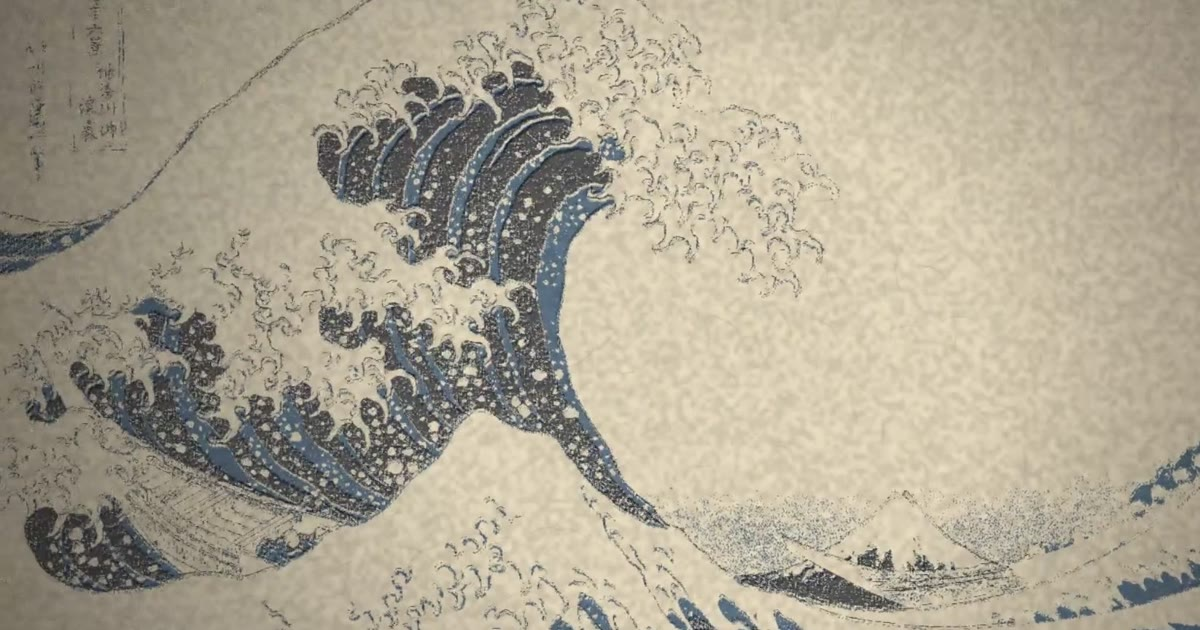
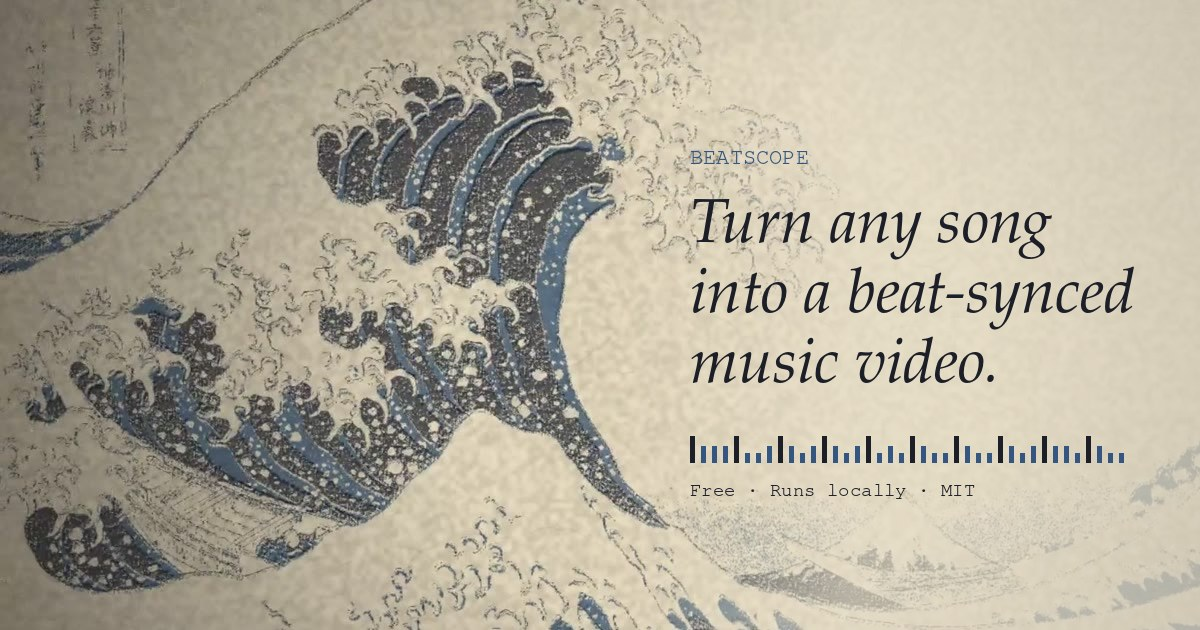
site: v0.16.0 copy, clearer headline and social card
- H1, title and social cards now say what BeatScope does: turn any song into a beat-synced music video.
- og-cover carries the headline and a beat strip.
- Four templates, own photos/clips, 1:1/16:9/9:16 at 720p/1080p.
- Download, wheel and material links point at v0.16.0; upgrade note for v0.15 users.

Changed region(s): [[0.555, 0.0, 1.0, 1.0]]

diff --git a/site/index.html b/site/index.html
@@ -3,21 +3,21 @@
   <head>
     <meta charset="utf-8" />
     <meta name="viewport" content="width=device-width, initial-scale=1" />
-    <title>BeatScope — Every stroke lands on a measured beat</title>
-    <meta name="description" content="BeatScope turns a song into a beat-synchronised film, or gives its timing to a coding agent. Runs locally. MIT. Featuring Shattered Heartbeat, a film by chornic." />
+    <title>BeatScope — Turn any song into a beat-synced music video</title>
+    <meta name="description" content="Turn any song into a beat-synced music video. Four templates, your own photos and clips, square, landscape or portrait at 720p or 1080p. Or hand the timing to a coding agent. Runs locally. MIT." />
     <meta name="theme-color" content="#0d0b0a" />
     <link rel="icon" href="favicon.ico" sizes="any" />
     <link rel="apple-touch-icon" href="apple-touch-icon.png" />
-    <meta property="og:title" content="BeatScope" />
-    <meta property="og:description" content="BeatScope turns a song into a beat-synchronised film, or gives its timing to a coding agent. Runs locally. MIT. Featuring Shattered Heartbeat, a film by chornic." />
+    <meta property="og:title" content="BeatScope — Turn any song into a beat-synced music video" />
+    <meta property="og:description" content="Turn any song into a beat-synced music video. Four templates, your own photos and clips, square, landscape or portrait at 720p or 1080p. Or hand the timing to a coding agent. Runs locally. MIT." />
     <meta property="og:type" content="website" />
     <meta property="og:url" content="https://beatscope.byelogan.fun/" />
     <meta property="og:image" content="https://beatscope.byelogan.fun/og-cover.jpg" />
     <meta property="og:image:width" content="1200" />
     <meta property="og:image:height" content="630" />
     <meta name="twitter:card" content="summary_large_image" />
-    <meta name="twitter:title" content="BeatScope" />
-    <meta name="twitter:description" content="BeatScope turns a song into a beat-synchronised film, or gives its timing to a coding agent. Runs locally. MIT. Featuring Shattered Heartbeat, a film by chornic." />
+    <meta name="twitter:title" content="BeatScope — Turn any song into a beat-synced music video" />
+    <meta name="twitter:description" content="Turn any song into a beat-synced music video. Four templates, your own photos and clips, square, landscape or portrait at 720p or 1080p. Or hand the timing to a coding agent. Runs locally. MIT." />
     <meta name="twitter:image" content="https://beatscope.byelogan.fun/og-cover.jpg" />
     <link rel="image_src" href="og-cover.jpg" />
     <link rel="preconnect" href="https://fonts.googleapis.com" />
@@ -168,7 +168,7 @@
         padding: 80px var(--gut) clamp(32px, 5vw, 56px);
       }
       .x-hero__copy { max-width: 820px; }
-      .x-hero h1 { margin: 0 0 20px; font: italic 400 clamp(46px, 7.4vw, 112px)/0.96 var(--serif); letter-spacing: -0.015em; }
+      .x-hero h1 { margin: 0 0 20px; font: italic 400 clamp(40px, 6vw, 88px)/0.98 var(--serif); letter-spacing: -0.015em; }
       .x-hero__lede { margin: 0 0 28px; max-width: 58ch; color: var(--bone); font-size: 12px; line-height: 1.75; }
       .x-hero .x-label { margin-top: 40px; }
       .x-watch {
@@ -399,10 +399,10 @@
 
       <div class="x-hero__body">
         <div class="x-hero__copy">
-          <h1>Every stroke lands on a measured beat.</h1>
-          <p class="x-hero__lede x-mono">BeatScope turns a song into a beat-synchronised film — or gives its timing to a coding agent. Runs locally. MIT.</p>
+          <h1>Turn any song into a beat-synced music video.</h1>
+          <p class="x-hero__lede x-mono">Drop in a song, add your own photos or clips, export square, landscape or portrait. Every stroke lands on a measured beat. Or hand the timing to a coding agent. Runs locally. MIT.</p>
           <div class="x-actions">
-            <a class="x-btn" href="https://github.com/chosuicide/beatscope/releases/download/v0.15.0/Beathi-Studio-v0.15.0-windows-x64.zip">Download for Windows</a>
+            <a class="x-btn" href="https://github.com/chosuicide/beatscope/releases/download/v0.16.0/Beathi-Studio-v0.16.0-windows-x64.zip">Download for Windows</a>
             <a class="x-link" href="https://github.com/chosuicide/beatscope" target="_blank" rel="noopener">View on GitHub →</a>
             <button class="x-link" type="button" data-film="0" aria-haspopup="dialog">▶ Watch the film · 73 s · with sound</button>
           </div>
@@ -528,8 +528,8 @@
               <p class="x-step__num" aria-hidden="true">III.</p>
               <div class="x-label">
                 <h3 class="x-label__t">A film that hears it.</h3>
-                <p class="x-label__r">Step III · 1080×1080 · 30 FPS MP4</p>
-                <p class="x-label__body">Render the full song with Voxel Interference or Prismatic Echo.</p>
+                <p class="x-label__r">Step III · 1:1 · 16:9 · 9:16 · 720p / 1080p · 30 FPS MP4</p>
+                <p class="x-label__body">Pick one of four templates, drop in your own photos or clips if you like, and render the full song.</p>
               </div>
             </div>
           </article>
@@ -560,8 +560,9 @@
           <article class="x-panel">
             <p class="x-panel__head x-mono"><span>Exhibit A</span><span>Film</span></p>
             <h3>A film you can watch</h3>
-            <p>Two templates: <em>Voxel Interference</em> (procedural glitch visuals) and <em>Prismatic Echo</em> (grey, blue and red footage, mirrors, kaleidoscopes, contour trails and sparse moving negatives).</p>
-            <p>Both render the full song to MP4 at 1080×1080, 30 fps; live preview at 540×540.</p>
+            <p>Four templates: <em>Voxel Interference</em> (procedural glitch visuals), <em>Prismatic Echo I</em> (grey, blue and red footage, mirrors, kaleidoscopes, contour trails and sparse moving negatives), <em>Prismatic Echo II</em> (Echo I with a sampler chop every two bars: repeated slices, slipped bands, one-frame flashes) and <em>Pastel Bloom</em> (flower footage grown into oil, ink and pastel strokes).</p>
+            <p>Use the built-in footage or your own photos and video clips (Prismatic Echo and Pastel Bloom), arranged on an editable media timeline.</p>
+            <p>Export the full song to MP4 at 1:1, 16:9 or 9:16, 720p or 1080p, 30 fps. Each format is composed natively, not cropped. Live preview shows the chosen format.</p>
             <p>Edit stage boundaries and add, move or mute cue markers on the rhythm graph, with undo/redo and optional snapping.</p>
             <p class="x-fine">Prismatic Echo uses GPU composition, hardware encoding and reusable caches; devices without the required GPU fall back to a Canvas renderer.</p>
             <a class="x-link" href="https://github.com/chosuicide/beatscope/blob/main/docs/material-template.md" target="_blank" rel="noopener">Template guide →</a>
@@ -626,15 +627,16 @@
             </div>
             <div class="x-block">
               <h3>Windows</h3>
-              <p>Download Beathi Studio v0.15.0, extract the whole ZIP, double-click <strong>Beathi Studio.exe</strong>.</p>
+              <p>Download Beathi Studio v0.16.0, extract the whole ZIP, double-click <strong>Beathi Studio.exe</strong>.</p>
               <p class="x-dim">Includes the analyser, Node.js, Playwright, FFmpeg and the material pack. Rendering uses Microsoft Edge on Windows 10/11.</p>
-              <a class="x-btn" href="https://github.com/chosuicide/beatscope/releases/download/v0.15.0/Beathi-Studio-v0.15.0-windows-x64.zip">Download for Windows</a>
+              <p class="x-dim">Upgrading from v0.15? No uninstall needed: extract v0.16.0 into a new folder and run it from there.</p>
+              <a class="x-btn" href="https://github.com/chosuicide/beatscope/releases/download/v0.16.0/Beathi-Studio-v0.16.0-windows-x64.zip">Download for Windows</a>
             </div>
             <div class="x-block">
               <h3>Links</h3>
               <ul class="x-linklist">
-                <li><a href="https://github.com/chosuicide/beatscope/releases/tag/v0.15.0" target="_blank" rel="noopener"><span>Release v0.15.0</span><span aria-hidden="true">→</span></a></li>
-                <li><a href="https://github.com/chosuicide/beatscope/releases/download/v0.15.0/Beathi-Materials-v0.15.0.zip"><span>Material pack</span><span aria-hidden="true">↓</span></a></li>
+                <li><a href="https://github.com/chosuicide/beatscope/releases/tag/v0.16.0" target="_blank" rel="noopener"><span>Release v0.16.0</span><span aria-hidden="true">→</span></a></li>
+                <li><a href="https://github.com/chosuicide/beatscope/releases/download/v0.16.0/Beathi-Materials-v0.16.0.zip"><span>Material pack</span><span aria-hidden="true">↓</span></a></li>
                 <li><a href="demo/"><span>Try the web demo</span><span aria-hidden="true">→</span></a></li>
               </ul>
             </div>
@@ -642,8 +644,8 @@
           <div>
             <div class="x-block">
               <h3>Python 3.10+</h3>
-              <p>Download the wheel from the v0.15.0 release, then run:</p>
-              <pre class="x-code"><code>pip install beatscope-0.15.0-py3-none-any.whl
+              <p>Download the wheel from the v0.16.0 release, then run:</p>
+              <pre class="x-code"><code>pip install beatscope-0.16.0-py3-none-any.whl
 beatscope serve --open</code></pre>
               <p class="x-dim">For Prismatic Echo, extract the material pack into your working directory (keep its <code>materials/</code> folder) or set <code>BEATSCOPE_MATERIAL_ROOT</code>.</p>
               <p class="x-dim">Python rendering also needs Node.js, FFmpeg, Playwright and a supported browser.</p>
@@ -681,10 +683,10 @@ beatscope serve --open</code></pre>
       <p class="x-credits__film">a film by chornic</p>
       <p class="x-next">Your film next.</p>
       <div class="x-actions">
-        <a class="x-btn" href="https://github.com/chosuicide/beatscope/releases/download/v0.15.0/Beathi-Studio-v0.15.0-windows-x64.zip">Download for Windows</a>
+        <a class="x-btn" href="https://github.com/chosuicide/beatscope/releases/download/v0.16.0/Beathi-Studio-v0.16.0-windows-x64.zip">Download for Windows</a>
         <a class="x-link" href="https://github.com/chosuicide/beatscope" target="_blank" rel="noopener">Star on GitHub</a>
       </div>
-      <footer class="x-foot x-mono">BeatScope / Beathi Studio v0.15.0 · MIT · Runs locally.</footer>
+      <footer class="x-foot x-mono">BeatScope / Beathi Studio v0.16.0 · MIT · Runs locally.</footer>
     </section>
 
     <dialog class="x-theatre" id="theatre" aria-label="Shattered Heartbeat, a film by chornic">
